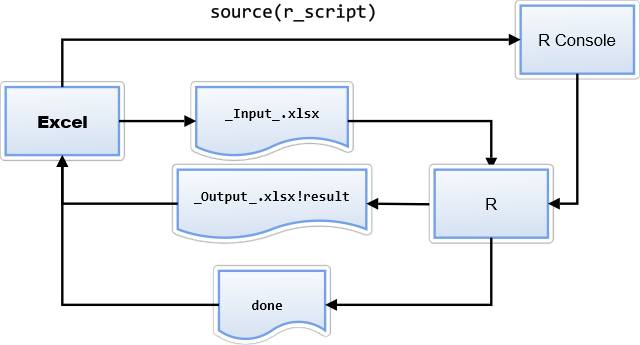
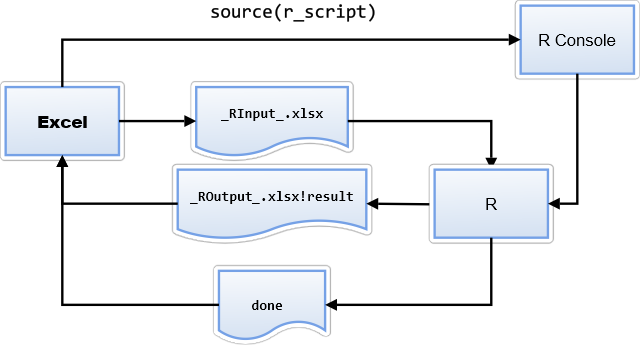
updated file names

Changed region(s): [[0.3125, 0.5507, 0.5625, 0.6087], [0.3438, 0.3188, 0.5, 0.3478]]

diff --git a/README.rst b/README.rst
@@ -41,7 +41,7 @@ VBA library usage
 
 Configuration
 +++++++++++++++++++++++
-You can leave the default configuration parameters as they are. By default, the R scripts will be searched in the subfolder "R" of the same folder as the Excel file and they will be allowed 10 seconds to execute before assuming timeout. The interface files between Excel and R will be called _Input_.xlsx and _Output_.xlsx and will be created in the same folder.
+You can leave the default configuration parameters as they are. By default, the R scripts will be searched in the subfolder "R" of the same folder as the Excel file and they will be allowed 10 seconds to execute before assuming timeout. The interface files between Excel and R will are called _RInput_.xlsx and _ROutput_.xlsx and will be created in the ".\\tmp" folder.
 If you modify WORKING_PATH, it can be an absolute or relative path without the ending "\\". If using relative paths, they are relative to the folder where the Excel file is located. By default, the scripts are searched in the ".\\r" folder. When the R script finishes, it should generate a "done" file to tell VBA that the process has finished.
 
 
@@ -51,11 +51,13 @@ If you modify WORKING_PATH, it can be an absolute or relative path without the e
    ' Configuration Parameters
    ' ###################################################################
    ' Path to the R Scripts and where the temporary files will be created
-   Private Const WORKING_PATH = ".\R"
+   Private Const R_SCRIPTS_PATH = ".\r"
+   Private Const WORKING_PATH = ".\tmp"
    ' Time to wait for the R Script answer in milliseconds
-   Private Const TimeOutMilliseconds = 10000
-   Private Const INTERFACE_IN_FILE_NAME = "_Input_"
-   Private Const INTERFACE_OUT_FILE_NAME = "_Output_"
+   Private Const TIMEOUT_MILLISECONDS = 10000
+   Private Const R_IN_FILE_NAME = "_RInput_"
+   Private Const R_OUT_FILE_NAME = "_ROutput_"
+   ' ###################################################################
    
 .. image:: ./images/rrunner_diagram.png
    :width: 100%
@@ -148,7 +150,7 @@ getTable
 .. code-block:: R
 
    getTable <- function(tableName) {
-     read_excel("_Input_.xlsx", sheet = tableName)
+     read_excel("../tmp/_Input_.xlsx", sheet = tableName)
    }
 
 This is defined in excelhelper.r and allows reading a range into a dataframe using readxl
@@ -166,7 +168,7 @@ writeResult
 .. code-block:: R
 
    writeResult <- function(tablenames) {
-     write_xlsx(tablenames, path = "_Output_.xlsx", col_names = TRUE, format_headers = FALSE)
+     write_xlsx(tablenames, path = "../tmp/_Output_.xlsx", col_names = TRUE, format_headers = FALSE)
    }
 
 This is defined in excelhelper.r and allows writing a dataframe into the output file using writexl
@@ -184,7 +186,7 @@ done
 .. code-block:: R
 
    done <- function() {
-     file.create("done")
+     file.create("../tmp/done")
      closeAllConnections()
    }
      
